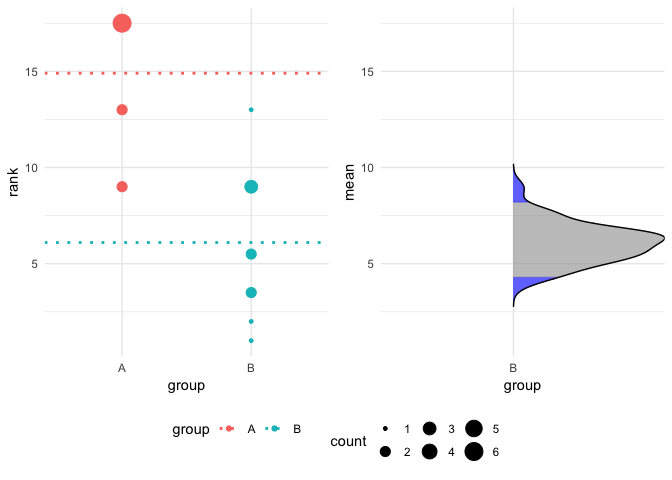
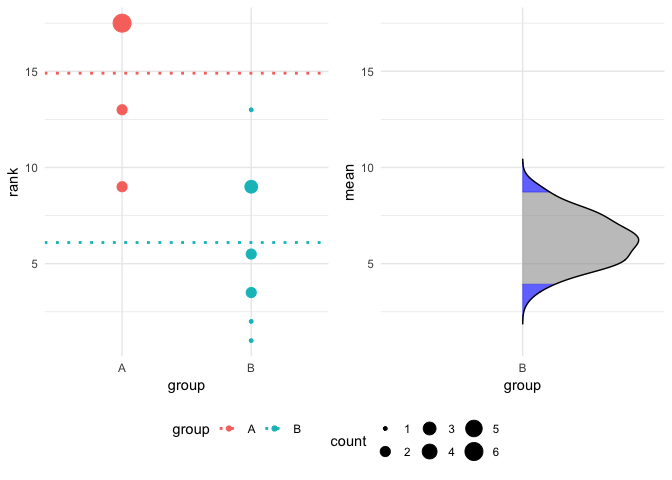
fix readme

Changed region(s): [[0.75, 0.3125, 1.0, 0.6875], [0.75, 0.75, 0.7812, 0.7812]]

diff --git a/Readme.md b/Readme.md
@@ -3,13 +3,9 @@ besthr - Generating Bootstrap Estimation Distributions of HR Data
 Dan MacLean
 12/06/2019
 
-<<<<<<< HEAD
 <!-- badges: start --> ![Travis build
 status](https://travis-ci.org/TeamMacLean/besthr.svg?branch=master)\](<https://travis-ci.org/TeamMacLean/besthr>)
-=======
-<!-- badges: start --> [![Travis build
-status](https://travis-ci.org/TeamMacLean/besthr.svg?branch=master)](https://travis-ci.org/TeamMacLean/besthr)
->>>>>>> 473a6dbc81fd31fb1f08111c0e5b1cafd0306a44
+
 <!-- badges: end -->
 
 ## Synopsis
@@ -56,11 +52,7 @@ hr_est_1
     ## Unpaired mean rank difference of A (14.9, n=10) minus B (6.1, n=10)
     ##  8.8
     ## Confidence Intervals (0.025, 0.975)
-<<<<<<< HEAD
-    ##  4.3475, 8.37875
-=======
-    ##  3.61625, 8.02625
->>>>>>> 473a6dbc81fd31fb1f08111c0e5b1cafd0306a44
+    ##  4.3475, 8.32625
     ## 
     ## 100 bootstrap resamples.
 
@@ -68,11 +60,7 @@ hr_est_1
 plot(hr_est_1)
 ```
 
-<<<<<<< HEAD
-    ## Picking joint bandwidth of 0.361
-=======
-    ## Picking joint bandwidth of 0.364
->>>>>>> 473a6dbc81fd31fb1f08111c0e5b1cafd0306a44
+    ## Picking joint bandwidth of 0.397
 
 ![](Readme_files/figure-gfm/unnamed-chunk-1-1.png)<!-- -->
 
@@ -137,11 +125,7 @@ hr_est_1
     ## Unpaired mean rank difference of A (14.9, n=10) minus B (6.1, n=10)
     ##  8.8
     ## Confidence Intervals (0.025, 0.975)
-<<<<<<< HEAD
-    ##  4.2975, 8.19124999999999
-=======
-    ##  4, 8.5525
->>>>>>> 473a6dbc81fd31fb1f08111c0e5b1cafd0306a44
+    ##  3.9475, 8.7075
     ## 
     ## 100 bootstrap resamples.
 
@@ -149,11 +133,7 @@ hr_est_1
 plot(hr_est_1)
 ```
 
-<<<<<<< HEAD
-    ## Picking joint bandwidth of 0.354
-=======
-    ## Picking joint bandwidth of 0.381
->>>>>>> 473a6dbc81fd31fb1f08111c0e5b1cafd0306a44
+    ## Picking joint bandwidth of 0.459
 
 ![](Readme_files/figure-gfm/unnamed-chunk-3-1.png)<!-- -->
 
@@ -167,11 +147,7 @@ estimate(hr_data_1, score, group, control = "B" ) %>%
   plot()
 ```
 
-<<<<<<< HEAD
-    ## Picking joint bandwidth of 0.241
-=======
-    ## Picking joint bandwidth of 0.415
->>>>>>> 473a6dbc81fd31fb1f08111c0e5b1cafd0306a44
+    ## Picking joint bandwidth of 0.374
 
 ![](Readme_files/figure-gfm/unnamed-chunk-4-1.png)<!-- -->
 
@@ -184,11 +160,7 @@ estimate(hr_data_1, score, group, control = "A", nits = 1000, low = 0.4, high = 
   plot()
 ```
 
-<<<<<<< HEAD
-    ## Picking joint bandwidth of 0.262
-=======
-    ## Picking joint bandwidth of 0.254
->>>>>>> 473a6dbc81fd31fb1f08111c0e5b1cafd0306a44
+    ## Picking joint bandwidth of 0.255
 
 ![](Readme_files/figure-gfm/unnamed-chunk-5-1.png)<!-- -->
 
@@ -240,20 +212,12 @@ hr_est_3
     ## Unpaired mean rank difference of A (5, n=3) minus B (2, n=3)
     ##  3
     ## Confidence Intervals (0.025, 0.975)
-<<<<<<< HEAD
-    ##  1, 2.66666666666667
-=======
-    ##  1, 2.84166666666666
->>>>>>> 473a6dbc81fd31fb1f08111c0e5b1cafd0306a44
+    ##  1, 3
     ## 
     ## Unpaired mean rank difference of A (5, n=3) minus C (8, n=3)
     ##  -3
     ## Confidence Intervals (0.025, 0.975)
-<<<<<<< HEAD
-    ##  7.33333333333333, 8.66666666666667
-=======
-    ##  7, 8.66666666666667
->>>>>>> 473a6dbc81fd31fb1f08111c0e5b1cafd0306a44
+    ##  7.33333333333333, 9
     ## 
     ## 100 bootstrap resamples.
 
@@ -261,11 +225,7 @@ hr_est_3
 plot(hr_est_3)
 ```
 
-<<<<<<< HEAD
     ## Picking joint bandwidth of 0.172
-=======
-    ## Picking joint bandwidth of 0.171
->>>>>>> 473a6dbc81fd31fb1f08111c0e5b1cafd0306a44
 
 ![](Readme_files/figure-gfm/unnamed-chunk-6-1.png)<!-- -->
 
@@ -281,10 +241,6 @@ hr_est_3 %>%
   plot(which = "just_data")
 ```
 
-<<<<<<< HEAD
     ## Picking joint bandwidth of 0.172
-=======
-    ## Picking joint bandwidth of 0.171
->>>>>>> 473a6dbc81fd31fb1f08111c0e5b1cafd0306a44
 
 ![](Readme_files/figure-gfm/unnamed-chunk-7-1.png)<!-- -->
